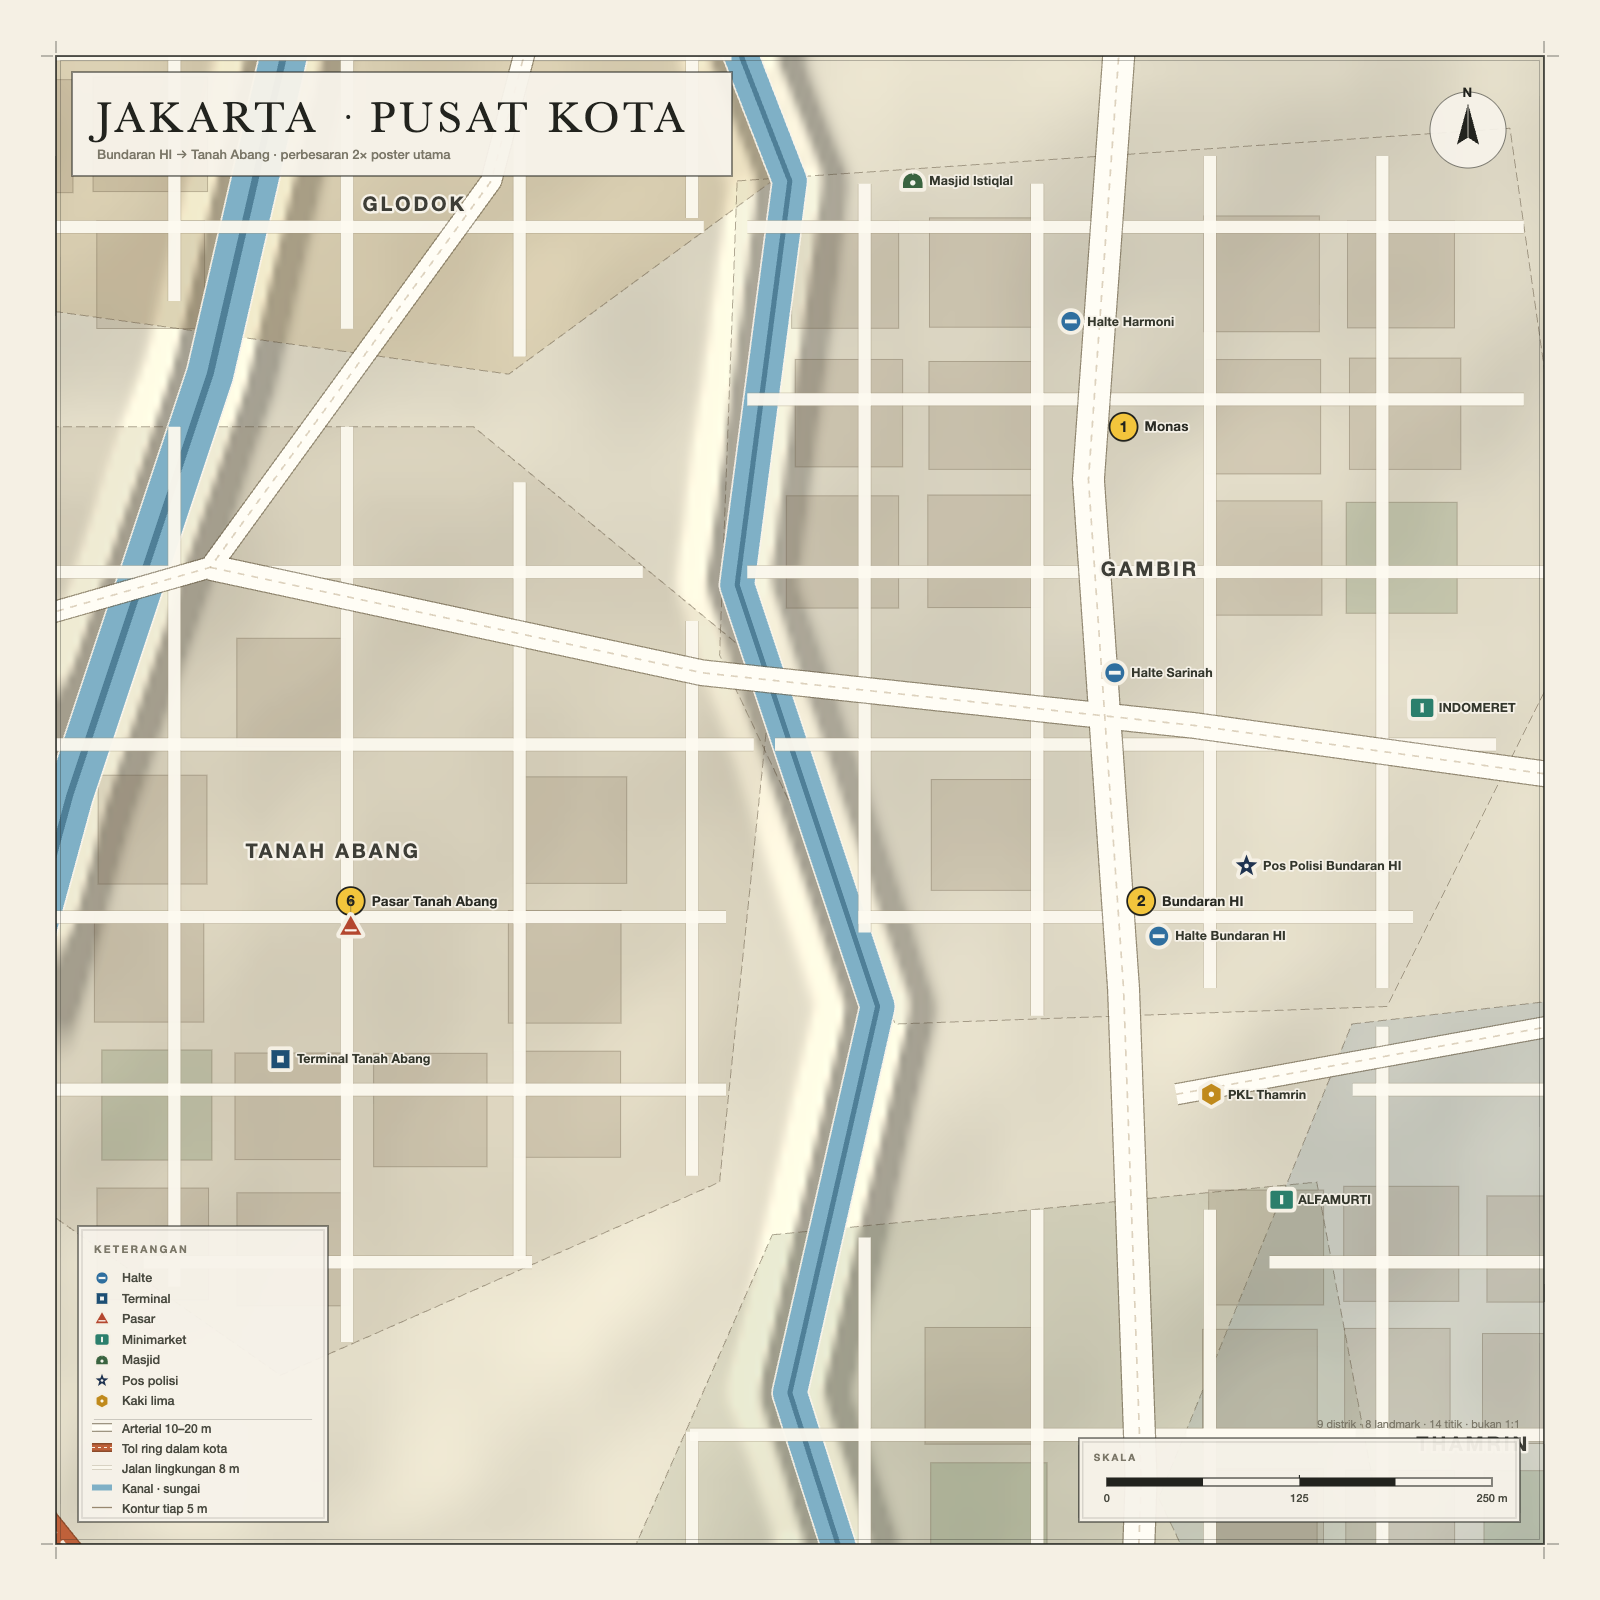
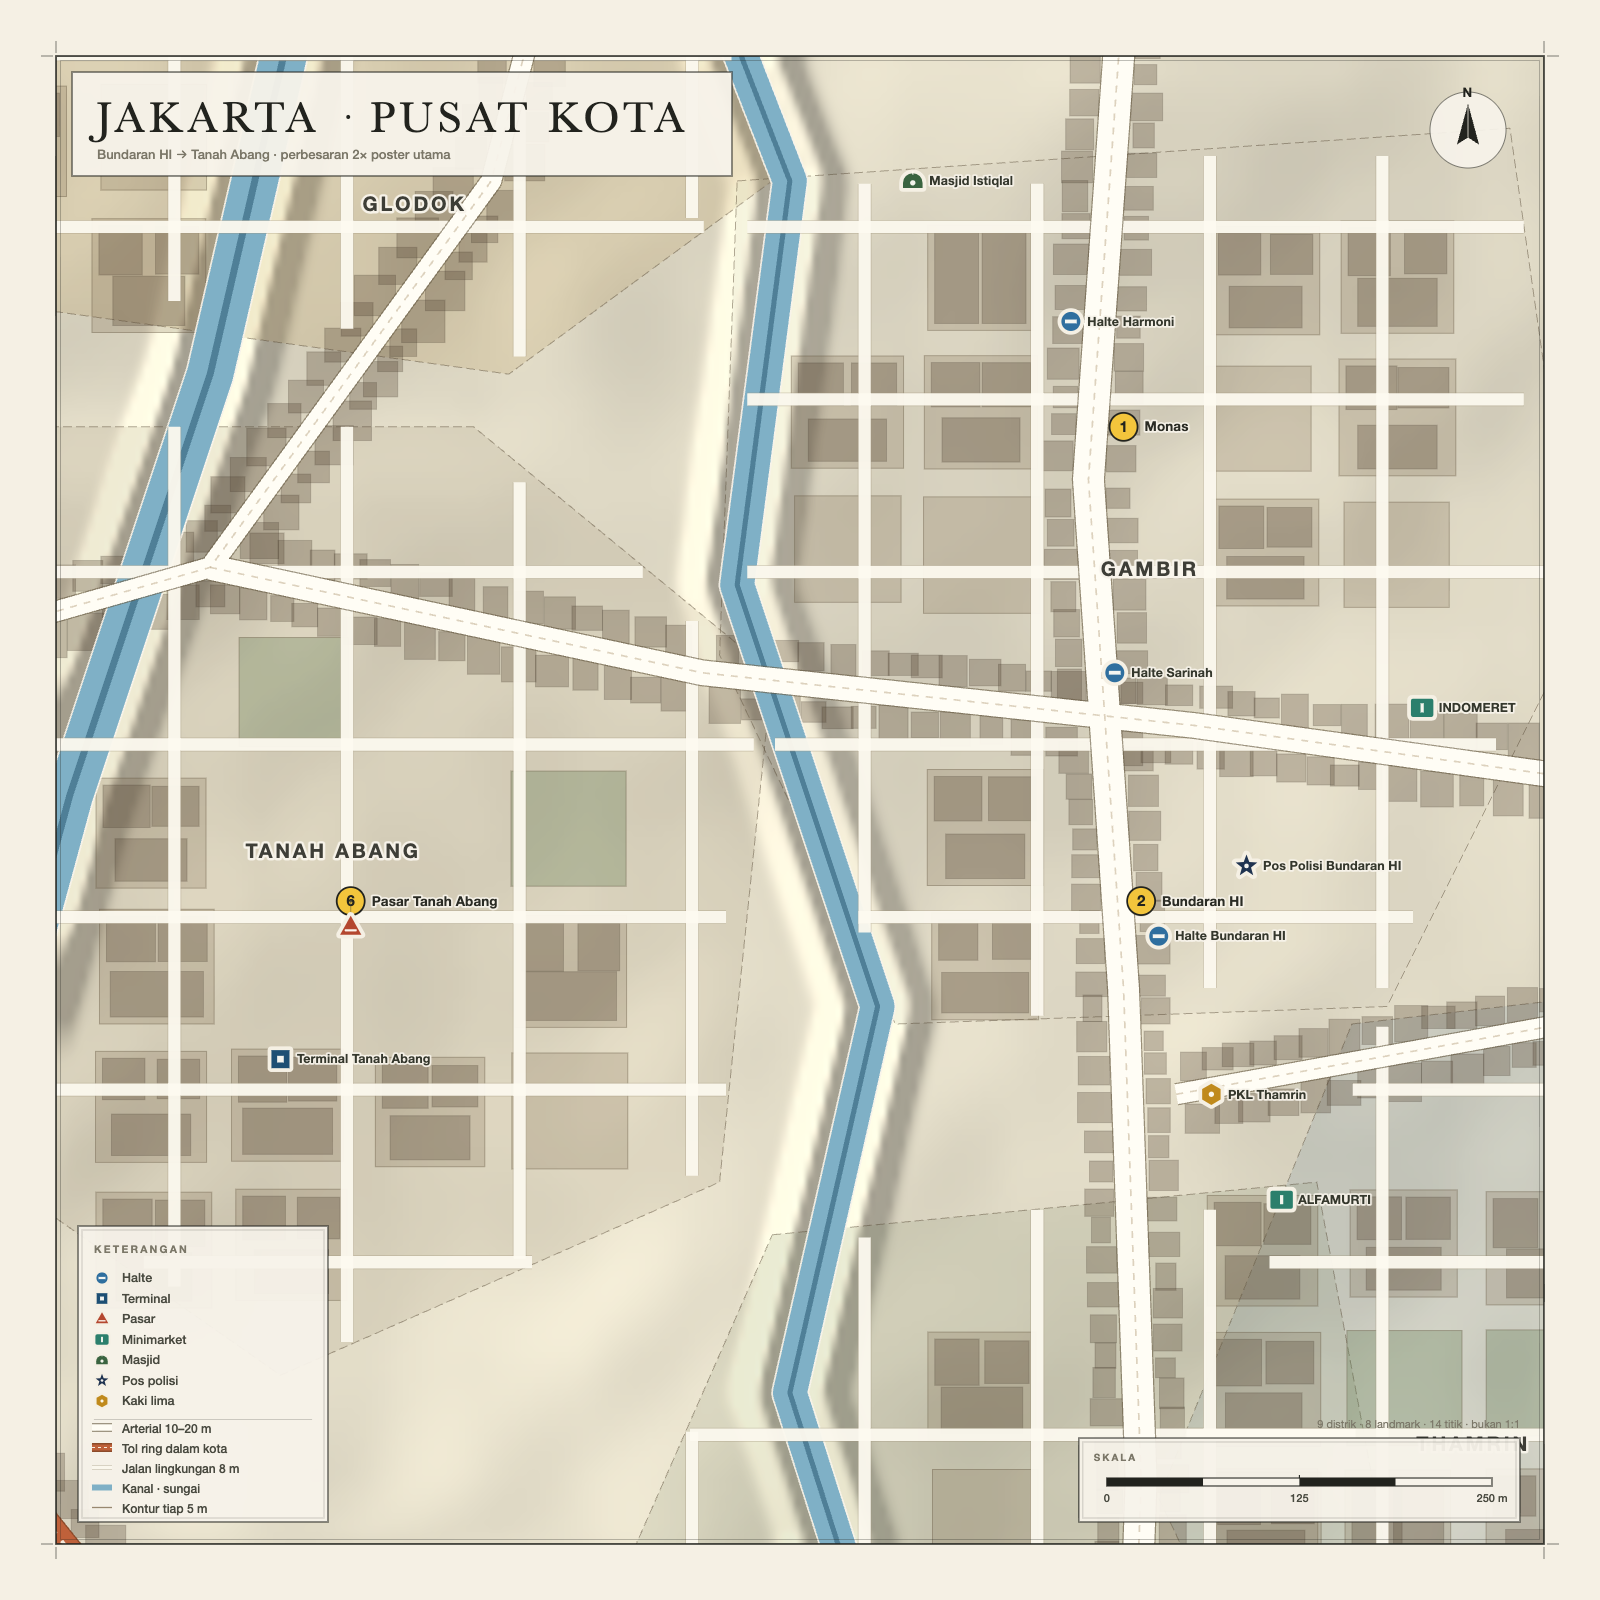
feat(map): draw the real building footprints
Blocks were empty rectangles, so a district with 80 blocks of fabric still read as a diagram with holes in it. The colliders already carry every footprint the generator placed (height > 3 m), so the poster now draws them: the built-up area reads as streets with buildings between them, not as outlines.

diff --git a/tools/map-poster.js b/tools/map-poster.js
@@ -777,11 +777,25 @@
       const p = polyPath(view, [
         [b.x - h, b.z - h], [b.x + h, b.z - h], [b.x + h, b.z + h], [b.x - h, b.z + h],
       ]);
-      c.fillStyle = b.type === 'park' ? 'rgba(92,118,76,.22)' : 'rgba(120,100,72,.17)';
+      c.fillStyle = b.type === 'park' ? 'rgba(92,118,76,.30)' : 'rgba(120,100,72,.22)';
       c.fill(p);
-      c.strokeStyle = 'rgba(96,82,60,.38)';
+      c.strokeStyle = 'rgba(96,82,60,.45)';
       c.lineWidth = 0.9;
       c.stroke(p);
+    }
+    // Real building footprints. A block drawn as an empty rectangle reads as a hole in the
+    // city; the colliders already carry every footprint the generator placed, so the map can
+    // show the built-up fabric instead of guessing at it.
+    const FOOTPRINTS = ((G.city && G.city.colliders) || []).filter((b) => (b.h || 0) > 3);
+    for (const b of FOOTPRINTS) {
+      const q = polyPath(view, [
+        [b.minX, b.minZ], [b.maxX, b.minZ], [b.maxX, b.maxZ], [b.minX, b.maxZ],
+      ]);
+      c.fillStyle = 'rgba(86,70,52,.30)';
+      c.fill(q);
+      c.strokeStyle = 'rgba(52,42,30,.42)';
+      c.lineWidth = 0.5;
+      c.stroke(q);
     }
     c.restore();
 
